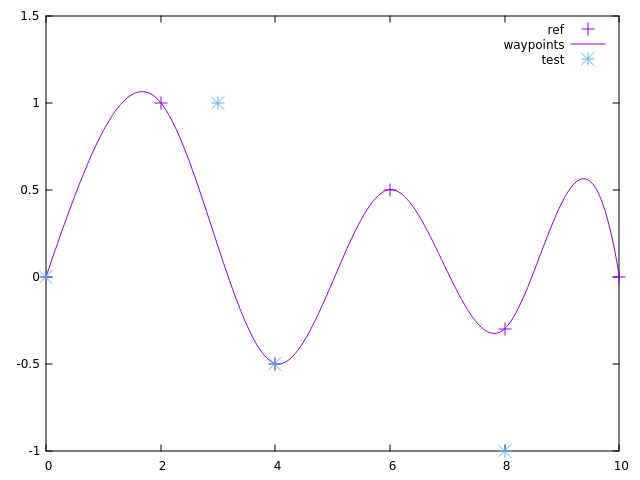
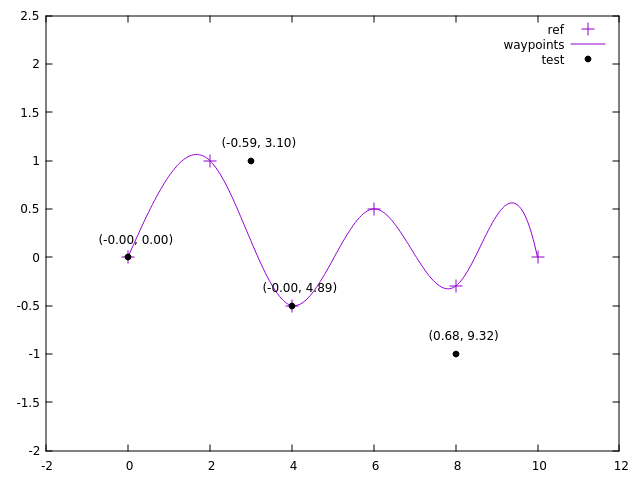
finalize + instruction

diff --git a/cpp/main.cpp b/cpp/main.cpp
@@ -62,11 +62,7 @@ int main(int argc, char** argv) {
 	x_test[0]=0.0; x_test[1]=4;    x_test[2]= 3.0; x_test[3]=8; 
 	y_test[0]=0.0; y_test[1]=-0.5; y_test[2]= 1.0; y_test[3]=-1; 
     for(int i=0; i<4; i++){
-		printf("%f %f\n", x_test[i], y_test[i]);
-	}
-	printf("\n");
-    for(int i=0; i<4; i++){
-		printf("%f %f\n", getFrenet(x_test[i], y_test[i], maps_x, maps_y)[0], getFrenet(x_test[i], y_test[i], maps_x, maps_y)[1]);	
+		printf("%f %f %f %f\n", x_test[i], y_test[i], getFrenet(x_test[i], y_test[i], maps_x, maps_y)[0], getFrenet(x_test[i], y_test[i], maps_x, maps_y)[1]);	
 	}
     return EXIT_SUCCESS;
 }

diff --git a/README.md b/README.md
@@ -5,3 +5,22 @@ In autonomous driving, the Frenet coordinate system is often used. In the Frenet
 In this problem, the reference is given as a finite list of points. The tasks are
 1. Constructs a continuous reference line given an input list of points in a cartersian coordinate C1.
 2. Provides functionality to convert any point in the cartersian coordinate C1 (that is, in the same coordinate with the list of points used to construct the continuous reference line) to the frenet coordinate. Following the direction of the given input points, the first point on the input list has the longitudinal position of 0. All points on the reference line have the lateral position of 0. All points to the left of the reference line have negative lateral position and all points to the right have the positive lateral position.
+
+## Instructions
+### Python
+The code `frenet_assignment.ipynb` is written in Jupyter Notebook, can be viewed directly on github site.
+#### Result
+![](result_py.png)
+
+- Blue points are given reference.
+- Red line is countinuos reference line
+- Points with label is testing for the coordinate transformation from Cartesian to Frenet, label includes lateral and logitudinal position of the point in Frenet coordinate
+
+### CPP
+Codes are in `cpp` folder. Compiled using `g++` in Linux OS. To view the graph, `gnuplot` is required.
+- Run `make` to compile the code, result with be the excutable `demo` file.
+- Run `./plot.sh` to execute the `demo` file, result will be `plot.cvs` file and the graph.
+
+#### Result
+![](cpp/result.png)
+Result is similar to the one from Python. There are small differences in the test Frenet label coming from the difference in sampling of the 2 programs.
